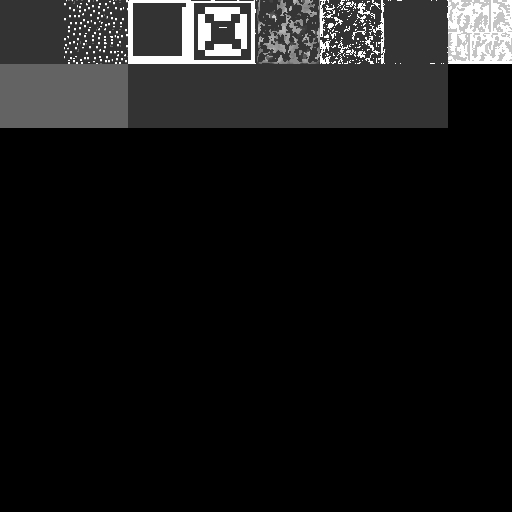
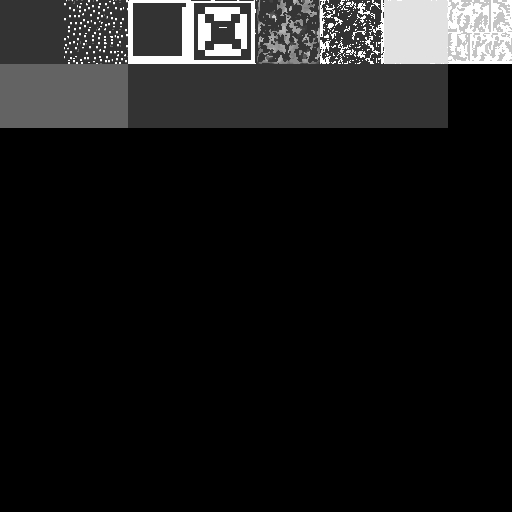
complex00: оттенок tint вершин (по умолчанию синий); стенд: старт с complex00 в режиме walk, игрок в (0, 2, 0), тёмный туман без света; Studio: прожектор выше камеры; атлас: 512env.jpg

Changed region(s): [[0.75, 0.0, 0.875, 0.125]]

diff --git a/src/ch_redactor/index.ts b/src/ch_redactor/index.ts
@@ -52,20 +52,20 @@ window.addEventListener("DOMContentLoaded", async () => {
         studioConf: {
             cameraPos: new THREE.Vector3(0, 30, 35),
             cameraLookAt: new THREE.Vector3(0, 0, 0),
-            fogParams: { near: 10, far: 80, color: new THREE.Color().set('#687277') },
-            ambientLightParams: { color: new THREE.Color().setHex(0x897fa0), intensity: 3 },
+            fogParams: { near: 10, far: 30, color: new THREE.Color().set('#062331') },
+            //ambientLightParams: { color: new THREE.Color().set('#9877e7'), intensity: 0 },
             directionalLightParams: { 
-                color: new THREE.Color(0xffffff), intensity: .3,
+                color: new THREE.Color(0xffffff), intensity: 5,
                 pos: new THREE.Vector3(-3, 3, -2)
             },
             spotLightParams: {
                 color: new THREE.Color().setHex(0xffffff),
                 intensity: 15,
-                pos: new THREE.Vector3(0, 3, 5),
+                pos: new THREE.Vector3(0, 1, 5),
                 angle: Math.PI * .2,
                 penumbra: 1,
                 decay: 1,
-                distance: 300,
+                distance: 30,
                 targetPos: new THREE.Vector3(0, 0, -50)
             },
         },
@@ -88,6 +88,10 @@ window.addEventListener("DOMContentLoaded", async () => {
 
     init(root)
 })
+
+// с чего стенд стартует: фабрика и положение игрока в режиме walk
+const START_ENTRY = 'complex00'
+const START_PLAYER_POS: [number, number, number] = [0, 2, 0]
 
 async function init(root: Root) {
     console.log('Root')
@@ -112,11 +116,12 @@ async function init(root: Root) {
     phisics.init(root)
     ticker.on(phisics.update.bind(phisics))
     phisics.createPlayer()
-    phisics.setPlayerPosition(studio.camera.position.x, studio.camera.position.y, studio.camera.position.z)
+    // старт — в режиме walk, игрок в точке START_PLAYER_POS
+    phisics.setPlayerPosition(START_PLAYER_POS[0], START_PLAYER_POS[1], START_PLAYER_POS[2])
 
     ui.init(root)
 
-    controls.init(root, true)
+    controls.init(root, false)
     //controls.setRotation(0, Math.PI * .25, 0)
     ticker.on(controls.update.bind(controls))
 
@@ -337,7 +342,8 @@ async function init(root: Root) {
     // ---- orbit / walk. Игрок ставится под камеру — на то, что под ней видно, — и смотрит туда же, куда она
 
     const PLAYER_LIFT = 1
-    const spawn = new THREE.Vector3(0, PLAYER_LIFT, 0)
+    // точка входа: до первого переключения в walk — стартовая
+    const spawn = new THREE.Vector3(...START_PLAYER_POS)
     const raycaster = new THREE.Raycaster()
     const placePlayer = () => {
         const cam = studio.camera.position
@@ -411,7 +417,7 @@ async function init(root: Root) {
         onChange: buildSingle,
         onReroll: buildGrid,
     })
-    panel.setEntry(GEOM_REGISTRY[0])
+    panel.setEntry(GEOM_REGISTRY.find(entry => entry.name === START_ENTRY) ?? GEOM_REGISTRY[0])
 }
 
 // габариты triangle soup или вершин индексной геометрии

diff --git a/src/geometry/06_complex00/complex00.ts b/src/geometry/06_complex00/complex00.ts
@@ -19,6 +19,9 @@ import {
 // стене — по центру ребра плана, шириной portalWidth, сужается, если пилоны не помещаются у одной из комнат;
 // уже 1.2 — общая стена без портала.
 //
+// Оттенок tint — множитель цвета вершин (c) всего комплекса после сборки комнат, поверх запечённого света;
+// компоненты не больше 1, поэтому цвет остаётся в [0, 1]. По умолчанию — синий.
+//
 // Высоты, стены, пилястры и профиль — общие для всех комнат: стыки на общих стенах сходятся только при одинаковых
 // уровнях. Своё у комнаты — форма (в координатах плана относительно pos).
 //
@@ -50,6 +53,7 @@ type T = {
     pilasterProtrusion?: number,  // на сколько ствол выступает из стены в комнату
     aoLength?: number,            // длина, на которую растягивается тайл тени у угла стены с полом и потолком
     colorWall?: A3,               // базовый цвет стен до запечённого освещения
+    tint?: A3,                    // множитель цвета вершин всего комплекса, компоненты от 0 до 1
 }
 
 export const DEFAULT_OPTS: Required<T> = {
@@ -88,6 +92,7 @@ export const DEFAULT_OPTS: Required<T> = {
     aoLength: .5,
     colorWall: [.82, .8, .76],
     //colorWall: [0, 0, 0],
+    tint: [.45, .62, 1],
 }
 
 const isInsidePolygon = ([x, z]: A2, polygon: A2[]): boolean => {
@@ -210,6 +215,7 @@ export const randomOpts = (): T => {
         pilasterProtrusion: rand(.06, .3),
         aoLength: rand(.3, .7),
         colorWall: [rand(.65, .9), rand(.65, .9), rand(.65, .9)],
+        tint: [rand(.6, .9), rand(.7, .95), 1],
     }
 }
 
@@ -343,6 +349,10 @@ export const complex00 = (opts: T = {}): IBuffersGeom => {
             colorWall: o.colorWall,
         }))
     })
+
+    // ---- оттенок всего комплекса: множитель цвета каждой вершины
+    const tint = o.tint.map(channel => Math.min(1, Math.max(0, channel)))
+    for (let i = 0; i < result.c.length; ++i) result.c[i] *= tint[i % 3]
 
     return result
 }

diff --git a/src/_CORE/Studio.ts b/src/_CORE/Studio.ts
@@ -166,7 +166,7 @@ export class Studio {
     render () {
         if (this.spotLight) {
             this.camera.getWorldPosition(this.spotLight.position)
-            this.spotLight.position.y += .1
+            this.spotLight.position.y += 1
         }
 
         if (this.composer) {
